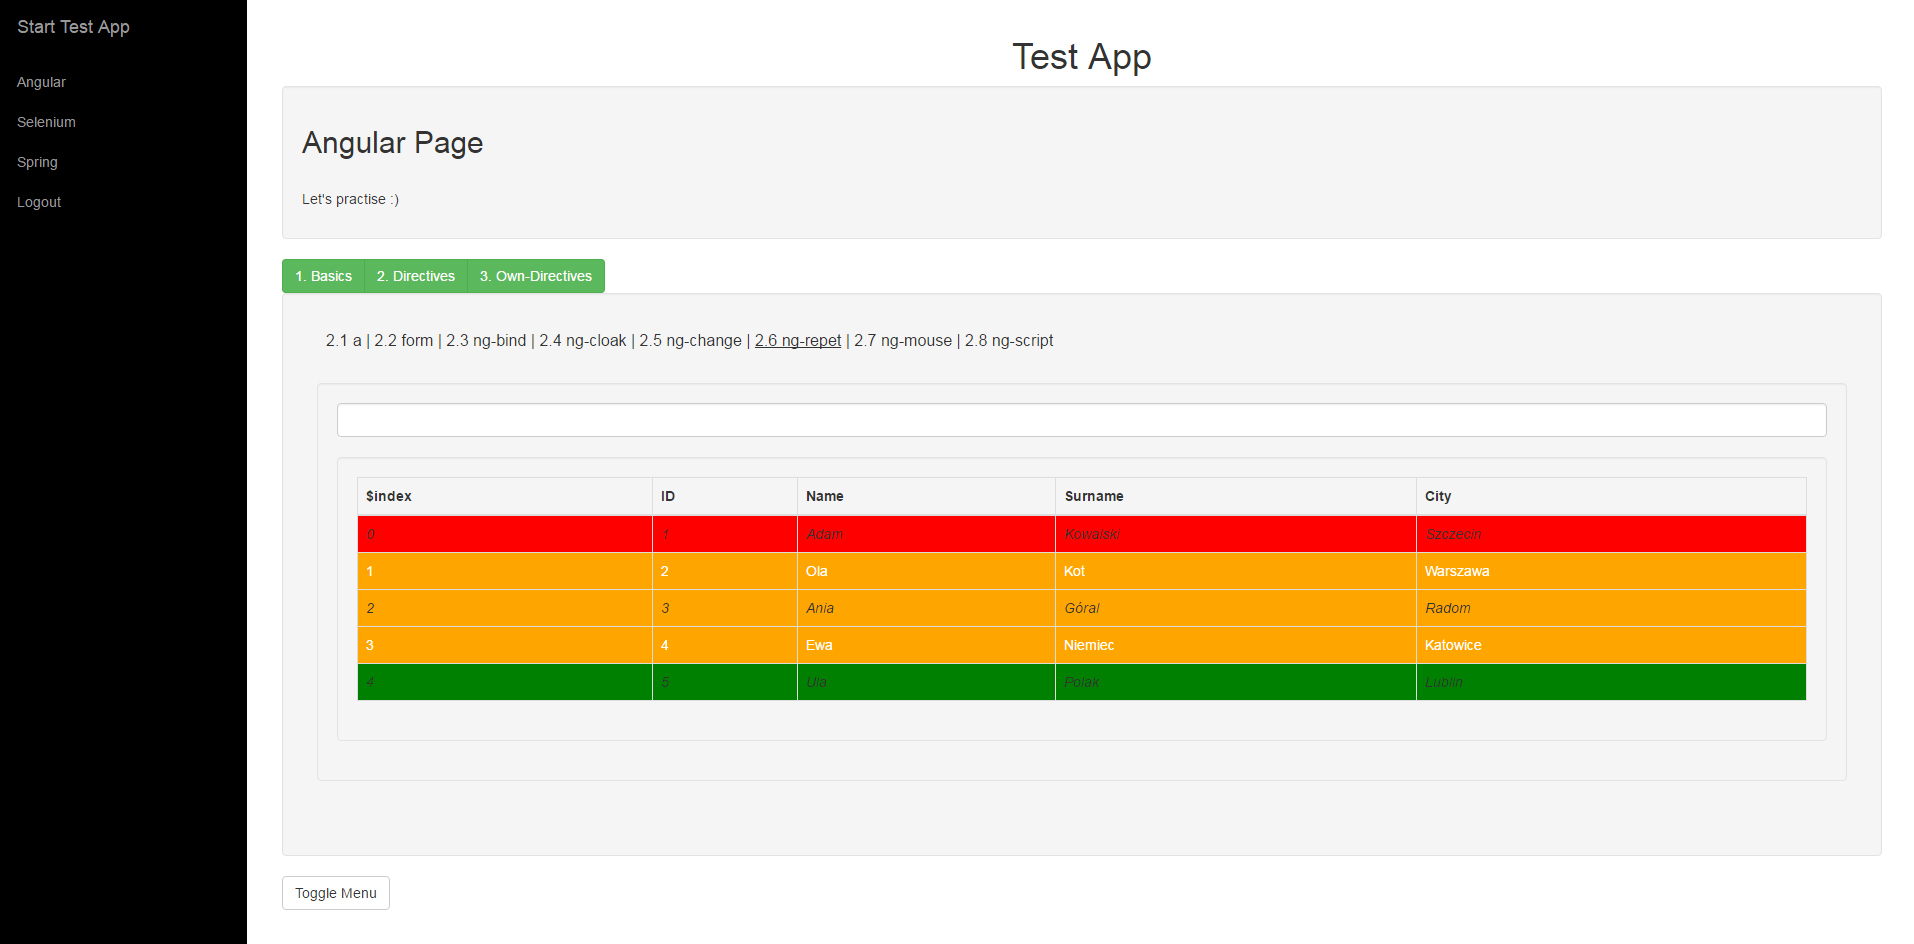
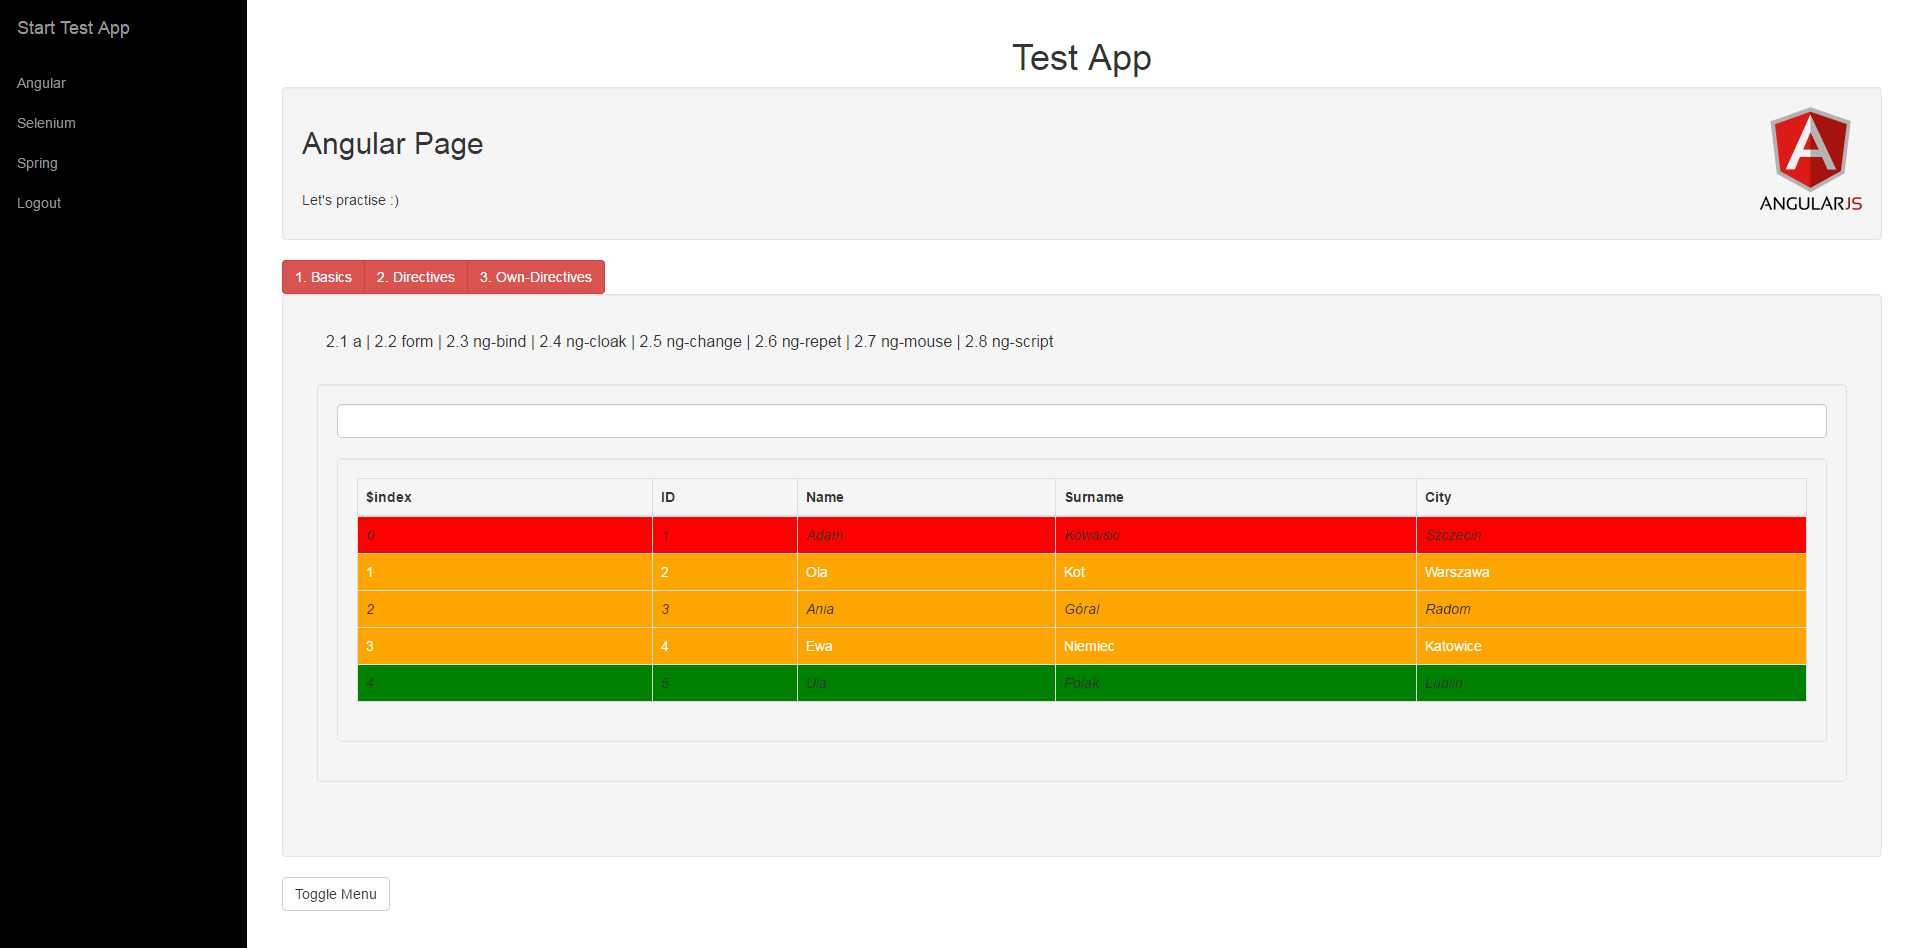
Added images to readme file

diff --git a/src/main/webapp/app/core/angular/views/angular.html b/src/main/webapp/app/core/angular/views/angular.html
@@ -1,13 +1,14 @@
 <!-- ANGULAR PAGE -->
 <div ng-show="authenticated" class="well">
+    <img src="" align="right" width="103" height="103">
     <h2>Angular Page</h2>
     <br>
     <p>Let's practise :)</p>
 </div>
 <div class="btn-group">
-    <button ui-sref=".basics" class="btn btn-success">1. Basics</button>
-    <button ui-sref=".directives" class="btn btn-success">2. Directives</button>
-    <button ui-sref=".owndirectives" class="btn btn-success">3. Own-Directives</button>
+    <button ui-sref=".basics" class="btn btn-danger">1. Basics</button>
+    <button ui-sref=".directives" class="btn btn-danger">2. Directives</button>
+    <button ui-sref=".owndirectives" class="btn btn-danger">3. Own-Directives</button>
 </div>
 <div ui-view class="well">
 

diff --git a/src/main/webapp/app/core/selenium/views/selenium.html b/src/main/webapp/app/core/selenium/views/selenium.html
@@ -1,5 +1,6 @@
 <!-- SELENIUM PAGE -->
 <div ng-show="authenticated" class="well">
+    <img src="" align="right" width="103" height="93">
     <h2>Selenium Page</h2>
     <br>
     <p>Let's practise :)</p>
